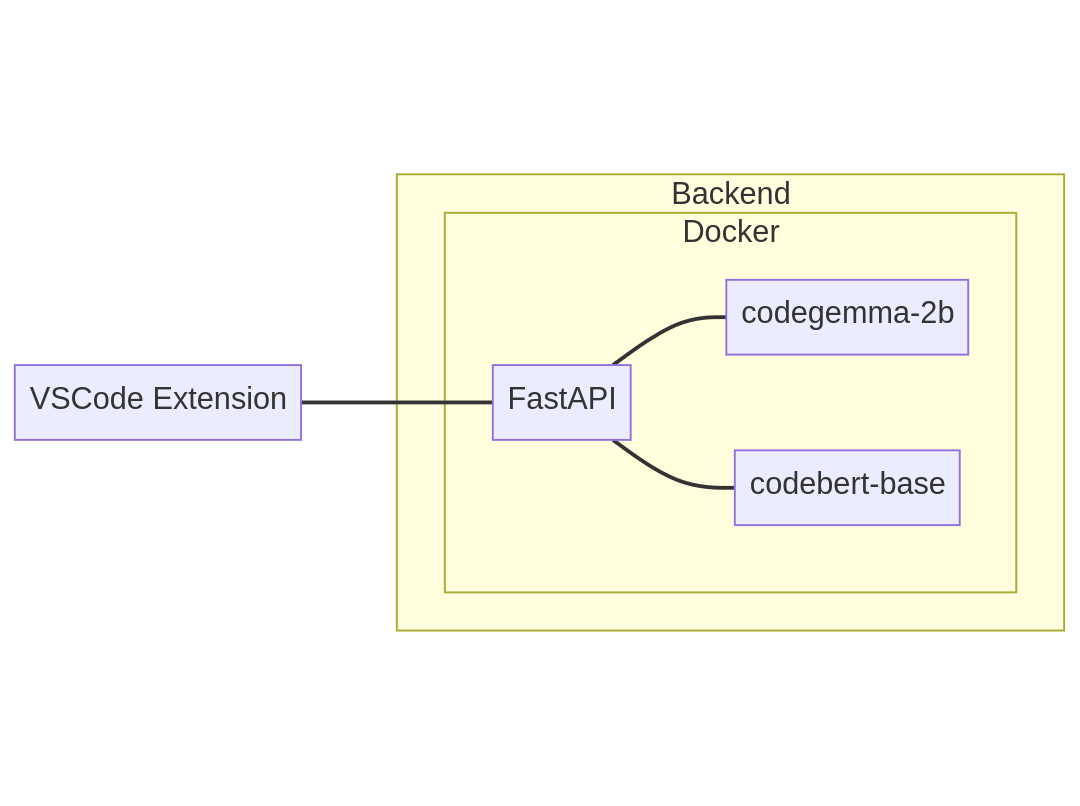
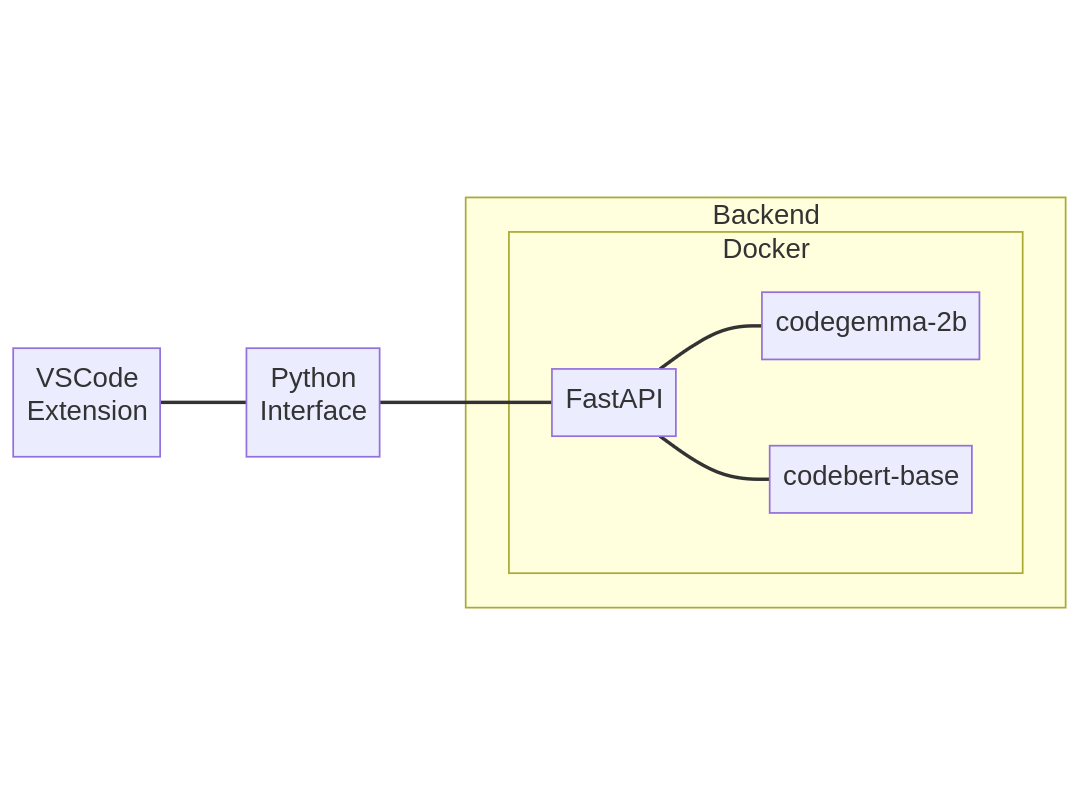
updated diagrams

Changed region(s): [[0.0, 0.2171, 1.0, 0.8065]]

diff --git a/resources/diagrams/sequence.md b/resources/diagrams/sequence.md
@@ -12,7 +12,7 @@ sequenceDiagram
     VSCode->>+Backend: Code of methods and docstrings
     Backend->>+codegemma-2b: Generate updated docstrings
     codegemma-2b->>-Backend: Updated docstrings
-    Backend->>+codebert-base: Embedd code, docstrings and updated docstrings
+    Backend->>+codebert-base: Embed code, docstrings and updated docstrings
     codebert-base->>-Backend: Embeddings
     Backend->>-VSCode: Docstrings that are out-of-date
     VSCode->>-User: Tags indicating out-of-date docstrings

diff --git a/resources/diagrams/arch.md b/resources/diagrams/arch.md
@@ -2,7 +2,8 @@
 
 ```mermaid
 flowchart LR
-    vscode[VSCode Extension]
+    vscode[VSCode\nExtension]
+    python[Python\nInterface]
     subgraph Backend
         subgraph Docker
             fastapi[FastAPI]
@@ -11,7 +12,8 @@ flowchart LR
         end
     end
 
-    vscode --- fastapi
+    vscode --- python
+    python --- fastapi
     fastapi --- codegemma
     fastapi --- codebert
 ```
